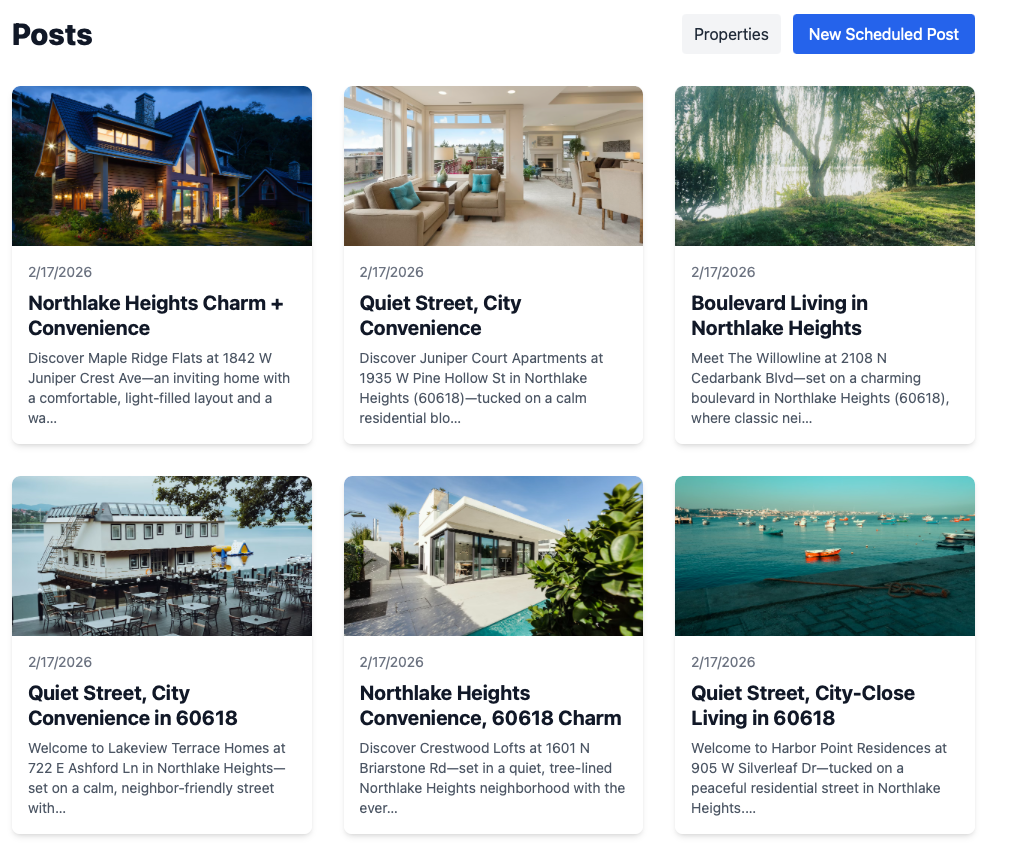
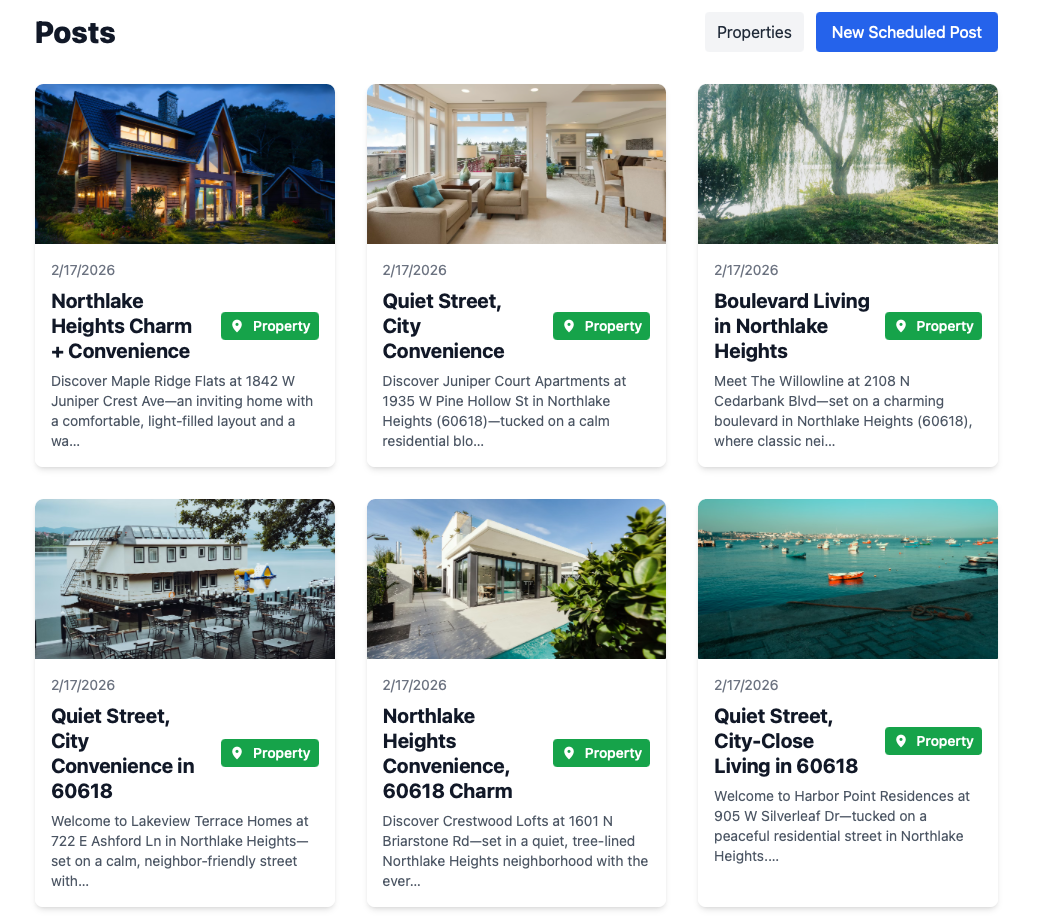
Added a property indicator to posts listing, property information and link to map in post view

diff --git a/frontend/src/Map.jsx b/frontend/src/Map.jsx
@@ -1,7 +1,9 @@
 import { APIProvider, Map as VisMap, Marker, InfoWindow } from '@vis.gl/react-google-maps'
 import { useState } from 'react'
 
-export default function Map({ center = { lat: 37.7749, lng: -122.4194 }, zoom = 10, markers = [], style = { height: '400px', width: '100%' }, onSelect = null }) {
+import { useEffect, useRef } from 'react'
+
+export default function Map({ center = { lat: 37.7749, lng: -122.4194 }, zoom = 10, markers = [], style = { height: '400px', width: '100%' }, onSelect = null, initialSelectedId = null }) {
   const apiKey = import.meta.env.VITE_GOOGLE_MAPS_API_KEY ||  ''
 
   if (!apiKey) {
@@ -11,6 +13,8 @@ export default function Map({ center = { lat: 37.7749, lng: -122.4194 }, zoom = 
   }
 
   const [activeMarker, setActiveMarker] = useState(null)
+  const [viewCenter, setViewCenter] = useState(center)
+  const [viewZoom, setViewZoom] = useState(zoom)
 
   const truncate = (text, max = 120) => {
     if (!text) return ''
@@ -39,10 +43,34 @@ export default function Map({ center = { lat: 37.7749, lng: -122.4194 }, zoom = 
     }
   }
 
+    // If an initialSelectedId is provided, try to find its marker index and open it.
+    // Apply only once per initialSelectedId to avoid overriding user clicks after navigation.
+    const initialApplied = useRef(false)
+
+    useEffect(() => {
+      // reset applied flag when the requested initialSelectedId changes
+      initialApplied.current = false
+    }, [initialSelectedId])
+
+    useEffect(() => {
+      if (initialApplied.current) return
+      if (!initialSelectedId || !Array.isArray(markers) || markers.length === 0) return
+      const idx = markers.findIndex((m) => m && m.property && (String(m.property.id) === String(initialSelectedId) || String(m.property_id) === String(initialSelectedId)))
+      if (idx >= 0) {
+        setActiveMarker(idx)
+        if (typeof onSelect === 'function') onSelect(markers[idx])
+        // center and zoom into the selected property
+        setViewCenter({ lat: markers[idx].lat, lng: markers[idx].lng })
+        setViewZoom(18)
+        initialApplied.current = true
+      }
+    }, [initialSelectedId, markers, onSelect])
+
   return (
     <div style={style}>
       <APIProvider apiKey={apiKey}>
-        <VisMap center={center} zoom={zoom} initialBounds={initialBounds} style={{ height: '100%', width: '100%' }}>
+        { /* When deep-linking to a property via initialSelectedId, skip initialBounds so explicit center/zoom apply */ }
+        <VisMap center={viewCenter} zoom={viewZoom} initialBounds={initialSelectedId ? null : initialBounds} style={{ height: '100%', width: '100%' }}>
           {markers.map((m, i) => (
             m && typeof m.lat === 'number' && typeof m.lng === 'number' ? (
               <Marker

diff --git a/frontend/src/Properties.jsx b/frontend/src/Properties.jsx
@@ -1,5 +1,5 @@
 import { useEffect, useState } from 'react'
-import { Link } from 'react-router-dom'
+import { Link, useLocation } from 'react-router-dom'
 import axios from 'axios'
 import Map from './Map'
 import Property from './Property'
@@ -10,6 +10,8 @@ export default function Properties() {
   const [loading, setLoading] = useState(true)
   const [error, setError] = useState(null)
   
+  const location = useLocation()
+
   useEffect(() => {
     setLoading(true)
     setError(null)
@@ -17,7 +19,15 @@ export default function Properties() {
     axios
       .get('http://localhost:3000/properties', { withCredentials: true })
       .then((res) => {
-        setProperties(res.data || [])
+        const list = res.data || []
+        setProperties(list)
+
+        const params = new URLSearchParams(location.search)
+        const selected = params.get('selected')
+        if (selected) {
+          const found = list.find((p) => String(p.id) === String(selected))
+          if (found) setSelectedProperty(found)
+        }
       })
       .catch((err) => {
         setError(err.message || 'Request failed')
@@ -45,8 +55,9 @@ export default function Properties() {
       </header>
       <section className="mb-8">
         <Map
-          markers={properties.map(p => ({ lat: Number(p.latitude), lng: Number(p.longitude), name: p.name, description: p.description, property: p }))}
+          markers={properties.map((p) => ({ lat: Number(p.latitude), lng: Number(p.longitude), name: p.name, description: p.description, property: p }))}
           onSelect={(item) => setSelectedProperty(item && item.property ? item.property : item)}
+          initialSelectedId={new URLSearchParams(location.search).get('selected')}
         />
       </section>
 

diff --git a/frontend/src/PostView.jsx b/frontend/src/PostView.jsx
@@ -40,6 +40,22 @@ export default function PostView() {
           <div className="text-sm text-gray-500 mb-4">Scheduled: {new Date(post.scheduled_date).toLocaleString()}</div>
         ) : null}
 
+        {post.property || post.property_id ? (
+          <div className="mb-4 p-4 bg-gray-50 rounded-md border border-gray-100">
+            <div className="flex items-center justify-between">
+              <div>
+                <div className="text-sm font-semibold text-gray-800">{(post.property && post.property.name) || 'Linked Property'}</div>
+                <div className="text-sm text-gray-600">
+                  {post.property ? [post.property.address, post.property.city, post.property.state, post.property.zip].filter(Boolean).join(', ') : null}
+                </div>
+              </div>
+              <div>
+                <Link to={`/properties?selected=${post.property_id || (post.property && post.property.id) || ''}`} className="text-sm text-blue-600 hover:underline">View on map</Link>
+              </div>
+            </div>
+          </div>
+        ) : null}
+
         {post.photos && post.photos.length > 0 && (
           <div className="mb-6">
             {post.photos.map((photo) => (

diff --git a/frontend/src/Post.jsx b/frontend/src/Post.jsx
@@ -36,8 +36,16 @@ export default function Post({ post }) {
           <div className="text-sm text-gray-500 mb-2">{scheduledLabel}</div>
         ) : null}
 
-        <h3 className="text-xl font-bold mb-2 leading-tight">
-          <Link to={`/posts/${post.id}`} className="text-gray-900 hover:underline">{title}</Link>
+        <h3 className="text-xl font-bold mb-2 leading-tight flex items-center gap-3">
+          <Link to={`/posts/${post.id}`} className="text-gray-900 hover:underline flex-1">{title}</Link>
+          {post.property_id ? (
+            <span title={post.property.name || 'Linked property'} className="inline-flex items-center gap-2 text-sm text-white bg-green-600 px-2 py-1 rounded">
+              <svg xmlns="http://www.w3.org/2000/svg" className="h-4 w-4" viewBox="0 0 20 20" fill="currentColor">
+                <path d="M10 2a6 6 0 00-6 6c0 5 6 10 6 10s6-5 6-10a6 6 0 00-6-6zm0 8a2 2 0 110-4 2 2 0 010 4z" />
+              </svg>
+              <span className="font-medium">Property</span>
+            </span>
+          ) : null}
         </h3>
 
         <p className="text-sm text-gray-600">{excerpt}</p>

diff --git a/backend/app/controllers/posts_controller.rb b/backend/app/controllers/posts_controller.rb
@@ -1,21 +1,21 @@
 class PostsController < ApplicationController
   def index
-    posts = Post.includes(:photos).all
+    posts = Post.includes(:photos, :property).all
 
-    render json: posts, include: ['photos']
+    render json: posts, include: ['photos', 'property']
   end
 
   def show
-    post = Post.includes(:photos).find(params[:id])
+    post = Post.includes(:photos, :property).find(params[:id])
     
-    render json: post, include: ['photos']
+    render json: post, include: ['photos', 'property']
   end
 
   def create
     post = Post.new(post_params)
 
     if post.save
-      render json: post, status: :created, include: ['photos']
+      render json: post, status: :created, include: ['photos', 'property']
     else
       render json: { errors: post.errors.full_messages }, status: :unprocessable_entity
     end

diff --git a/backend/app/services/property_description_updater_service.rb b/backend/app/services/property_description_updater_service.rb
@@ -31,9 +31,11 @@ class PropertyDescriptionUpdaterService
   private
 
   def process_property(property)
+    puts "Processing property ##{property.id} - #{property.address}, #{property.city}"
     description = OpenaiPropertyDescriptionService.new(property).generate_description
 
     if description.present?
+      puts "Generated description for property ##{property.id}: #{description.truncate(100)}"
       if property.update(description: description)
         Rails.logger.info("PropertyDescriptionUpdaterService: updated property ##{property.id}")
         1

diff --git a/backend/app/serializers/post_serializer.rb b/backend/app/serializers/post_serializer.rb
@@ -1,5 +1,7 @@
 class PostSerializer < ActiveModel::Serializer
-  attributes :id, :title, :content, :scheduled_date, :created_at, :updated_at
+  attributes :id, :title, :content, :scheduled_date, :created_at, :updated_at, :property_id
 
   has_many :photos
+
+  belongs_to :property
 end

diff --git a/backend/db/seeds.rb b/backend/db/seeds.rb
@@ -210,6 +210,7 @@ example_posts.each do |attrs|
   post = Post.find_or_create_by(title: attrs[:title]) do |p|
 		p.content = attrs[:content]
 		p.scheduled_date = attrs[:scheduled_date]
+    p.property_id = attrs[:property_id]
 	end
 
   if attrs[:photos_attributes]
